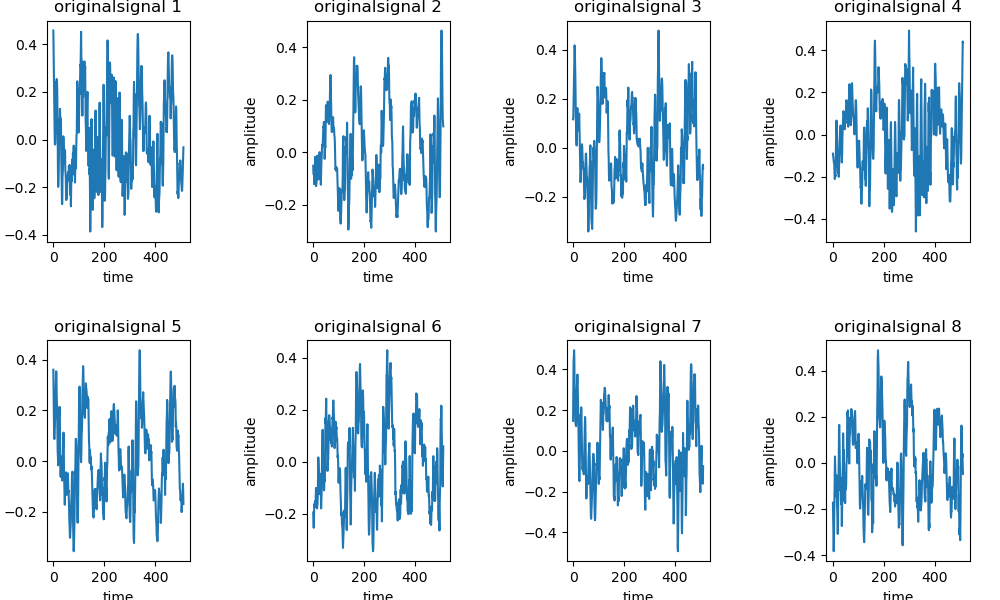
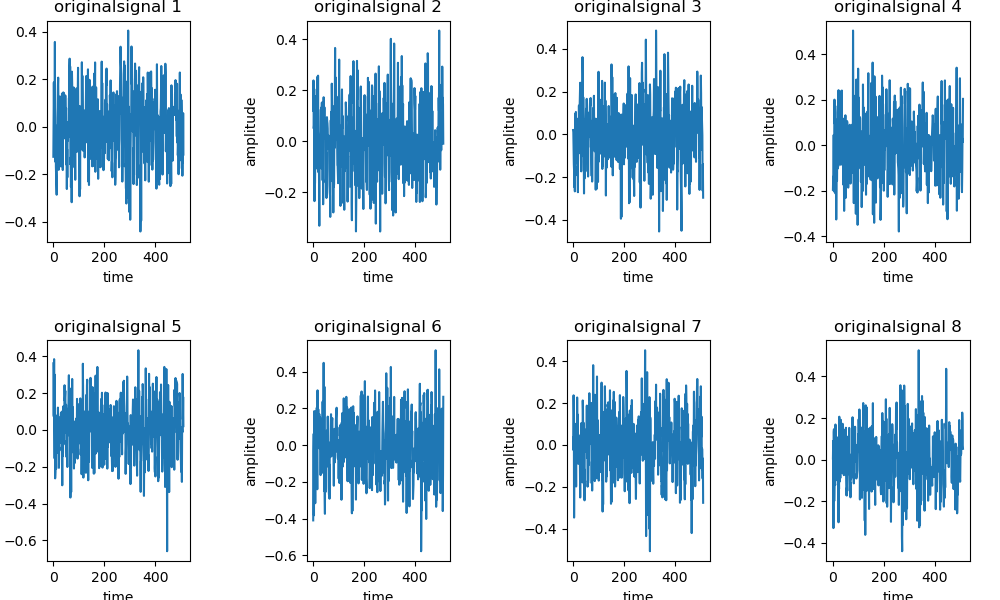
修正数据集,去除不可用部分

diff --git a/train.py b/train.py
@@ -357,10 +357,9 @@ def train_ddpm(device, model_name, data_path, config_id, log_dir, n_epochs=500):
                     n_epochs=n_epochs)
 
 
-def cnn_train(net, train_dataloader, test_dataloader, device, ckpt_path, log_dir,
+def cnn_train(writer, net, train_dataloader, test_dataloader, device, ckpt_path, log_dir,
               n_epochs):  # 训练cnn1d分类模型
     createFolder(log_dir)
-    writer = SummaryWriter(log_dir=log_dir, filename_suffix=str(n_epochs), flush_secs=5)
     net = net.to(device).float()
     loss_fn = nn.CrossEntropyLoss()
     optimizer = torch.optim.Adamax(net.parameters(), 1e-3, weight_decay=1e-5)
@@ -409,26 +408,38 @@ def cnn_train(net, train_dataloader, test_dataloader, device, ckpt_path, log_dir
     print('Done')
 
 
-def train_classification_step(device, model_name, config_id, log_dir, train_dataloader=None,
+def train_classification_step(writer, device, model_name, config_id, log_dir, train_dataloader=None,
                               test_dataloader=None, n_epochs=500):
     config = configs[config_id]
     net = build_network(config)
-    cnn_train(net, train_dataloader=train_dataloader, test_dataloader=test_dataloader, device=device,
+    cnn_train(writer, net, train_dataloader=train_dataloader, test_dataloader=test_dataloader, device=device,
               ckpt_path=model_name, log_dir=log_dir, n_epochs=n_epochs)
 
 
-def prepare_data(data_path='./data', add_noise=False, denoising_properties=None):
+def prepare_data(data_path='./data',
+                 slice_length=get_shape()[-1],
+                 slice_type='cut',
+                 windows_ratio=0.5,
+                 delete_labels=None,
+                 add_noise=False,
+                 denoising_properties=None):
     """
     准备数据，根据是否添加噪声，以及是否去噪，选择不同的数据集
     :param data_path: 数据集路径
+    :param slice_length: 切片长度
+    :param slice_type: 切片类型
+    :param windows_ratio: 窗口比例
+    :param delete_labels: 删除的标签
     :param add_noise: 是否添加噪声
     :param denoising_properties: 去噪属性
     """
+
     device = 'cuda' if torch.cuda.is_available() else 'cpu'
     # 根据是否添加噪声，以及是否去噪，选择不同的数据集， 以及绘制不同的图像，确定不同的任务类型
     if denoising_properties:
         add_noise = True
-        dataset = Signals(data_path, slice_length=512, slice_type='cut', add_noise=add_noise)
+        dataset = Signals(data_path, slice_length=slice_length, slice_type=slice_type,
+                          add_noise=add_noise, windows_rate=windows_ratio, delete_labels=delete_labels)
         task_type = 'denoising'
         # 取出前8个信号，绘制信号的图
         fig, ax = plt.subplots(4, 4, figsize=(10, 10))
@@ -472,7 +483,8 @@ def prepare_data(data_path='./data', add_noise=False, denoising_properties=None)
         # 将处理后的数据保存
         dataset.save(root_dir, 'reduce_noise_model_bi_lstm_big_huber_loss_power_snr')
     else:
-        dataset = Signals(data_path, slice_length=512, slice_type='cut', add_noise=add_noise)
+        dataset = Signals(data_path, slice_length=slice_length, slice_type=slice_type,
+                          add_noise=add_noise, windows_rate=windows_ratio, delete_labels=delete_labels)
         task_type = 'original' if not add_noise else 'noisy'
         # 取出前8个信号，绘制信号的图
         fig, ax = plt.subplots(2, 4, figsize=(10, 6))
@@ -488,39 +500,62 @@ def prepare_data(data_path='./data', add_noise=False, denoising_properties=None)
     return dataset, task_type
 
 
-def train_classification(log_dirs, data_path='./data', add_noise=False, denoising_properties=None):
+def validate_classification(writer, device, model, config_id, log_dir, val_dataloader):
+    config = configs[config_id]
+    net = build_network(config)
+    net.load_state_dict(torch.load(os.path.join(log_dir, model)))
+
+    with torch.no_grad():
+        net = net.to(device).eval()
+        acc = 0
+        for x, y in tqdm(val_dataloader, desc='validating'):
+            x = x.to(device).float()
+            y = y.to(device).long()
+            logits = net(x)
+            acc += (logits.argmax(dim=-1) == y).float().mean()
+        acc /= len(val_dataloader)
+        writer.add_scalar('val acc', acc.item())
+        print(f'accuracy: {acc.item()}')
+        return acc.item()
+
+
+def train_classification(log_dirs, ds_config, add_noise=False, denoising_properties=None):
     """
     训练分类模型, 可以选择是否添加噪声，以及是否去噪
     :param log_dirs: 保存模型的路径，tensorboard的log路径，
-    :param data_path: 数据集路径
+    :param ds_config: 数据集配置
     :param add_noise: 是否添加噪声
     :param denoising_properties: 去噪属性
     """
     os.makedirs('work_dirs', exist_ok=True)
     device = 'cuda' if torch.cuda.is_available() else 'cpu'
-
+    n_epochs = 1000
     # 根据是否添加噪声，以及是否去噪，选择不同的数据集， 以及绘制不同的图像，确定不同的任务类型
-    dataset, task_type = prepare_data(data_path, add_noise, denoising_properties)
+    dataset, task_type = prepare_data(**ds_config, add_noise=add_noise, denoising_properties=denoising_properties)
 
     # 准备数据，选择不同的模型，以及不同的log路径，训练分类模型
-    train_data, test_data, train_labels, test_labels = train_test_split(dataset.data, dataset.target, test_size=0.2)
+    train_data, test_data, train_labels, test_labels = train_test_split(dataset.data, dataset.target, test_size=0.4)
+    test_data, val_data, test_labels, val_labels = train_test_split(test_data, test_labels, test_size=0.5)
     train_dataloader = DataLoader(TensorDataset(tensor(train_data), tensor(train_labels)), batch_size=512, shuffle=True)
     test_dataloader = DataLoader(TensorDataset(tensor(test_data), tensor(test_labels)), batch_size=512, shuffle=False)
+    val_dataloader = DataLoader(TensorDataset(tensor(val_data), tensor(val_labels)), batch_size=512, shuffle=False)
     config_ids = [17, 16, 15, 14]
     model_name = ['classify_cnn1d_mini_best300_512batch_' + task_type + '.ckpt',
                   'classify_cnn1d_small_best300_512batch_' + task_type + '.ckpt',
                   'classify_cnn1d_medium_best300_512batch_' + task_type + '.ckpt',
                   'classify_cnn1d_big_best300_512batch_' + task_type + '.ckpt']
     for model, config_id, log_dir in zip(model_name, config_ids, log_dirs):
-        train_classification_step(device, model, config_id, log_dir, train_dataloader=train_dataloader,
-                                  test_dataloader=test_dataloader, n_epochs=1000)
+        writer = SummaryWriter(log_dir=log_dir, filename_suffix=str(n_epochs), flush_secs=5)
+        train_classification_step(writer, device, model, config_id, log_dir, train_dataloader=train_dataloader,
+                                  test_dataloader=test_dataloader, n_epochs=n_epochs)
+        validate_classification(writer, device, model, config_id, log_dir, val_dataloader)
 
 
 def train_sd_ddim():
     model_names = ['reduce_noise_model_bi_lstm_big_huber_loss_power_snr.pth',
                    'reduce_noise_model_bi_lstm_medium_huber_loss_power_snr.pth',
                    'reduce_noise_model_bi_lstm_small_huber_loss_power_snr.pth']
-    log_dirs = ['./run/05101523', './run/05101623', './run/05101723']
+    log_dirs = ['./run/0510biglstm', './run/0510mediumlstm', './run/0510smalllstm']
     config_ids = [11, 12, 13]
 
     device = "cuda" if torch.cuda.is_available() else "cpu"
@@ -529,20 +564,53 @@ def train_sd_ddim():
 
 
 if __name__ == '__main__':
-    denoising_properties = {
+    d_p = {
         'n_steps': 2000,  # ddpm的步数
         'config_id': 11,  # 11, 12, 13, 分别对应大中小
-        'root_dir': './model/sdddim_model',  # 保存模型的路径
+        'root_dir': './run/0510biglstm',  # 保存模型的路径
         'model_name': 'reduce_noise_model_bi_lstm_big_huber_loss_power_snr.pth'  # 模型名称
     }
     # prepare_data(add_noise=True, denoising_properties=denoising_properties)  # 准备数据，添加噪声，以及去噪
     # prepare_data(add_noise=False)  # 准备数据，不添加噪声
     # prepare_data(add_noise=True)  # 准备数据，添加噪声
-    train_classification(log_dirs=['./run/05121330', './run/05121430', './run/05121530', './run/05121630'],
-                         denoising_properties=denoising_properties)  # 训练分类模型， 输入为带噪声的信号经过sd_ddim去噪后的信号
-
-    train_classification(log_dirs=['./run/05121730', './run/05121830', './run/05121930', './run/05122030'],
-                         add_noise=True)  # 训练分类模型， 输入为带噪声的信号
+    del_labels = ['Aligned', 'Parallel', 'Unbalance']  # 删除的标签,
+    # 一共有8个标签,分别是
+    #         dic = {
+    #             'Aligned': 0,
+    #             'Bearing': 1,
+    #             'Bowed': 2,
+    #             'Broken': 3,
+    #             'Normal': 4,
+    #             'Parallel': 5,
+    #             'SWF': 6,
+    #             'Unbalance': 7,
+    #         }
+    # 删除后剩下5个标签
+    # dic = {
+    #     'Bearing': 0,
+    #     'Bowed': 1,
+    #     'Broken': 2,
+    #     'Normal': 3,
+    #     'SWF': 4,
+    # }
+    dataset_config = {
+        'data_path': './data',
+        'slice_length': 512,
+        'slice_type': 'cut',
+        'windows_ratio': 0.5,
+        'delete_labels': del_labels
+    }
+    train_classification(
+        log_dirs=['./run/0513mini_n', './run/0513small_n', './run/0513medium_n', './run/0513big_n'],
+        ds_config=dataset_config, add_noise=True
+    )  # 训练分类模型， 输入为带噪声的信号
 
     train_classification(
-        log_dirs=['./run/05122130', './run/05122230', './run/05122330', './run/05122430'])  # 训练分类模型， 输入为原始信号
+        log_dirs=['./run/0513mini_o', './run/0513small_o', './run/0513medium_o', './run/0513big_o'],
+        ds_config=dataset_config, add_noise=False
+    )  # 训练分类模型， 输入为原始信号
+
+    train_classification(
+        log_dirs=['./run/0513mini_dn', './run/0513small_dn', './run/0513medium_dn', './run/0513big_dn']
+        , denoising_properties=d_p, ds_config=dataset_config
+    )  # 训练分类模型， 输入为带噪声的信号经过sd_ddim去噪后的信号

diff --git a/utils/dataset.py b/utils/dataset.py
@@ -4,6 +4,7 @@ import cv2
 import numpy as np
 import pandas as pd
 import torch
+from matplotlib import pyplot as plt
 from pandas import DataFrame
 from scipy.interpolate import make_interp_spline
 from scipy.io import loadmat, savemat
@@ -52,10 +53,10 @@ class Signal:
             'Unbalance': 7,
         }
         # fileName = self.path.split('\\')[-1]
-        self.label = -1
+        self.label = ""
         for key in dic:
             if key in path:
-                self.label = dic[key]
+                self.label = key
                 break
         df = self.loadMat()
         self.data = df.loc[['TimeData/Motor/S_x', 'TimeData/Motor/R_y', 'TimeData/Motor/T_z'],]  # 选择三个轴的数据
@@ -80,7 +81,7 @@ class Signal:
         # print("data[0]=", data[0])
         slices = []
         if self.slice_type == 'cut':
-            slices_labels = [str(self.label) + "_" + str(i) for i in
+            slices_labels = [self.label + "_" + str(i) for i in
                              range(len(data[0][0]) // self.slice_length)]  # 生成切片标签
             for v in data:  # 切片
                 temp = []
@@ -96,11 +97,11 @@ class Signal:
                     left += int(self.slice_length * self.windows_rate)
                     right += int(self.slice_length * self.windows_rate)
                 slices.append(temp)
-            slices_labels = [str(self.label) + "_" + str(i) for i in range(len(slices[0]))]
+            slices_labels = [self.label + "_" + str(i) for i in range(len(slices[0]))]
         else:
             for v in data:  # 存储原始数据
                 slices.append([v[0]])
-            slices_labels = [str(self.label) + "_" + str(i) for i in range(len(slices[0]))]
+            slices_labels = [self.label + "_" + str(i) for i in range(len(slices[0]))]
         # print("dataLabels=", dataLabels)
         df = DataFrame(slices, index=dataLabels, columns=slices_labels, )
         # print("df=", df)
@@ -126,7 +127,6 @@ class Signal:
 
     def saveWaveform(self):
         for label in self.data.index:
-            temp = []
             savePath = os.path.join(self.path.replace('.mat', ''), "waveform" + str(self.slice_length), label.replace(
                 '/', '_'))
 
@@ -140,12 +140,32 @@ class Signal:
 
 class Signals(Dataset):
     def __init__(self, path, fs=5120, slice_length=512, slice_type='cut',
-                 add_noise=False, windows_rate=0.5):
+                 add_noise=False, windows_rate=0.5, delete_labels=None):
         self.signals = [Signal(os.path.join(path, f), fs, slice_length, slice_type, add_noise, windows_rate) for f in
                         os.listdir(path)
                         if
                         f.endswith('.mat')]
-        self.labels = [signal.label for signal in self.signals]
+        dic = {
+            'Aligned': 0,
+            'Bearing': 1,
+            'Bowed': 2,
+            'Broken': 3,
+            'Normal': 4,
+            'Parallel': 5,
+            'SWF': 6,
+            'Unbalance': 7,
+        }
+        # 去掉选定信号,'Aligned','Parallel','Unbalance'
+
+        if delete_labels is not None:
+            for label in delete_labels:
+                self.signals = [signal for signal in self.signals if label != signal.label]
+            # 更新 dic
+            for label in delete_labels:
+                dic.pop(label)
+            # 对dic重新赋值
+            dic = {key: i for i, key in enumerate(dic)}
+        self.labels = dic
         self.df = pd.concat([signal.data for signal in self.signals], axis=1)
         self.slice_type = slice_type
         self.data, self.target = self.makeDataSets()
@@ -163,8 +183,17 @@ class Signals(Dataset):
             for j in range(len(selected_column)):
                 # 将selected_column[j]转换为(1, x)的形状
                 data.append(selected_column[j].reshape(1, -1))
-                # 获取标签,并将标签转换为数字
-                target.append(eval(selected_column.index[j].split('_')[0]))
+                # 获取标签
+                target.append(self.labels[selected_column.index[j].split('_')[0]])
+        if self.slice_type != 'cut' and self.slice_type != 'windows':
+            # 获取最小的数据长度
+            min_length = min([len(d[0]) for d in data])
+            # 将数据填充为最小长度
+            data = [d[:, :min_length] for d in data]
+            data = [d[:, int(0.2 * min_length):] for d in data]
+        else:
+            # 去掉前20%的数据
+            data = data[int(0.2*len(data)):]
         data = np.array(data)
         target = np.array(target)
         return data, target
@@ -381,7 +410,6 @@ def process_signal(signal: tensor) -> tensor:
     :param signal: 输入信号
     :return: 处理后的信号
     """
-    x = np.linspace(0, signal.shape[2] - 1, signal.shape[2])
     signal = signal.flatten(1)
     signal = signal.detach().cpu().numpy()
     for i in range(len(signal)):
@@ -396,25 +424,17 @@ def process_signal(signal: tensor) -> tensor:
 
 if __name__ == '__main__':
     print('test')
-    dataSet = Signals('../data', slice_length=256, slice_type='cut')
-    # noise, data = generate_mixed_signal_data(dataSet.data)
-    noisy_signal = (make_noise(tensor(dataSet.data[0:64]), tensor([1000] * 64)).detach().cpu().numpy()
-                    + dataSet.data[0:64])
-
-    processed_signal = process_signal(noisy_signal)
-    noisy_fft = FFTPlot(noisy_signal[0][0], 'noisy', fs=5120)
-    noisy_fft.showOriginal()
-    processed_fft = FFTPlot(processed_signal[0][0], 'processed', fs=5120)
-    processed_fft.showOriginal()
-    # noise_dataset = Signals('../data', slice_length=512, slice_type='cut', add_noise=True)
-    # noise_fft = FFTPlot(noise_dataset.data[0][0], 'noisy', fs=5120)
-    # noise_fft.showOriginal()
-    # print(dataSet.df)
-    # data, _ = dataSet.__getitem__(0)
-
-    # print(dataSet.df[0])
-    # dataset = PictureData('../data', get_img_shape(), 32, 'stft', slice_length=5120, merged=False)
-    # dataset.showFigure(0)
-    # dataset.process()
-    # print(dataset.paths)
-    # dataset.getDataSet()
+    del_labels = ['Aligned', 'Parallel', 'Unbalance']
+    dataSet = Signals('../data', slice_type='origin', delete_labels=del_labels)
+    noise, data = generate_mixed_signal_data(dataSet.data)
+    save_path = '../work_dirs/noisy'
+    # 绘制原始信号和带噪声的信号
+    for i in range(len(data)):
+        plt.figure(figsize=(320, 6))
+        plt.plot(data[i][0], label='Noisy Signal', linestyle='--', linewidth=1)
+        plt.plot(noise[i][0], label='Original Signal', linewidth=1)
+        plt.xlabel("Sample Index")
+        plt.ylabel("Amplitude")
+        plt.legend()
+        plt.savefig(os.path.join(save_path, f'{i}.png'))
+        plt.close()

diff --git a/model/model_configs.py b/model/model_configs.py
@@ -88,25 +88,25 @@ bi_lstm_big_cfg = {
 convnet1d_big_classify_cfg = {
     'type': 'ConvNet1DClassify',
     'intermediate_channels': [20, 40, 80, 160, 160, 80, 40, 20],
-    'out_dim': 8,
+    'out_dim': 5,
 }
 
 convnet1d_medium_classify_cfg = {
     'type': 'ConvNet1DClassify',
     'intermediate_channels': [20, 40, 80, 40, 20],
-    'out_dim': 8,
+    'out_dim': 5,
 }
 
 convnet1d_small_classify_cfg = {
     'type': 'ConvNet1DClassify',
     'intermediate_channels': [10, 20, 10],
-    'out_dim': 8,
+    'out_dim': 5,
 }
 
 convnet1d_mini_classify_cfg = {
     'type': 'ConvNet1DClassify',
-    'intermediate_channels': [10],
-    'out_dim': 8,
+    'intermediate_channels': [5, 10, 5],
+    'out_dim': 5,
 }
 
 configs = [

diff --git a/model/ddpm.py b/model/ddpm.py
@@ -615,4 +615,5 @@ def build_network(config: dict, n_steps=None):
     network_cls = network_mapping.get(network_type)
 
     network = network_cls(n_steps, **config) if n_steps is not None else network_cls(**config)
+    config['type'] = network_type  # Restore the original config
     return network
